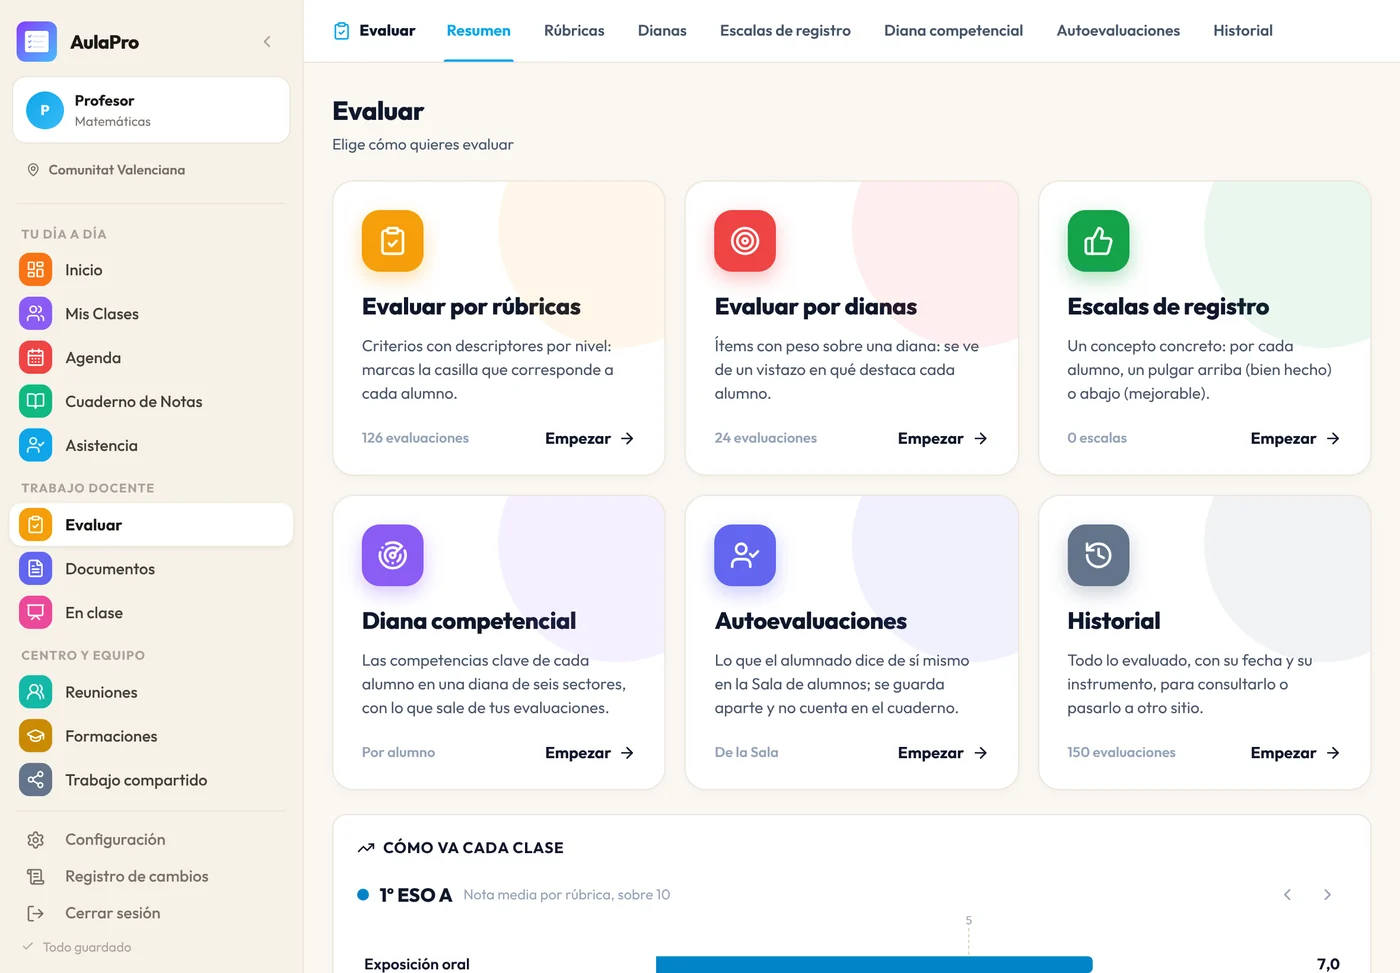
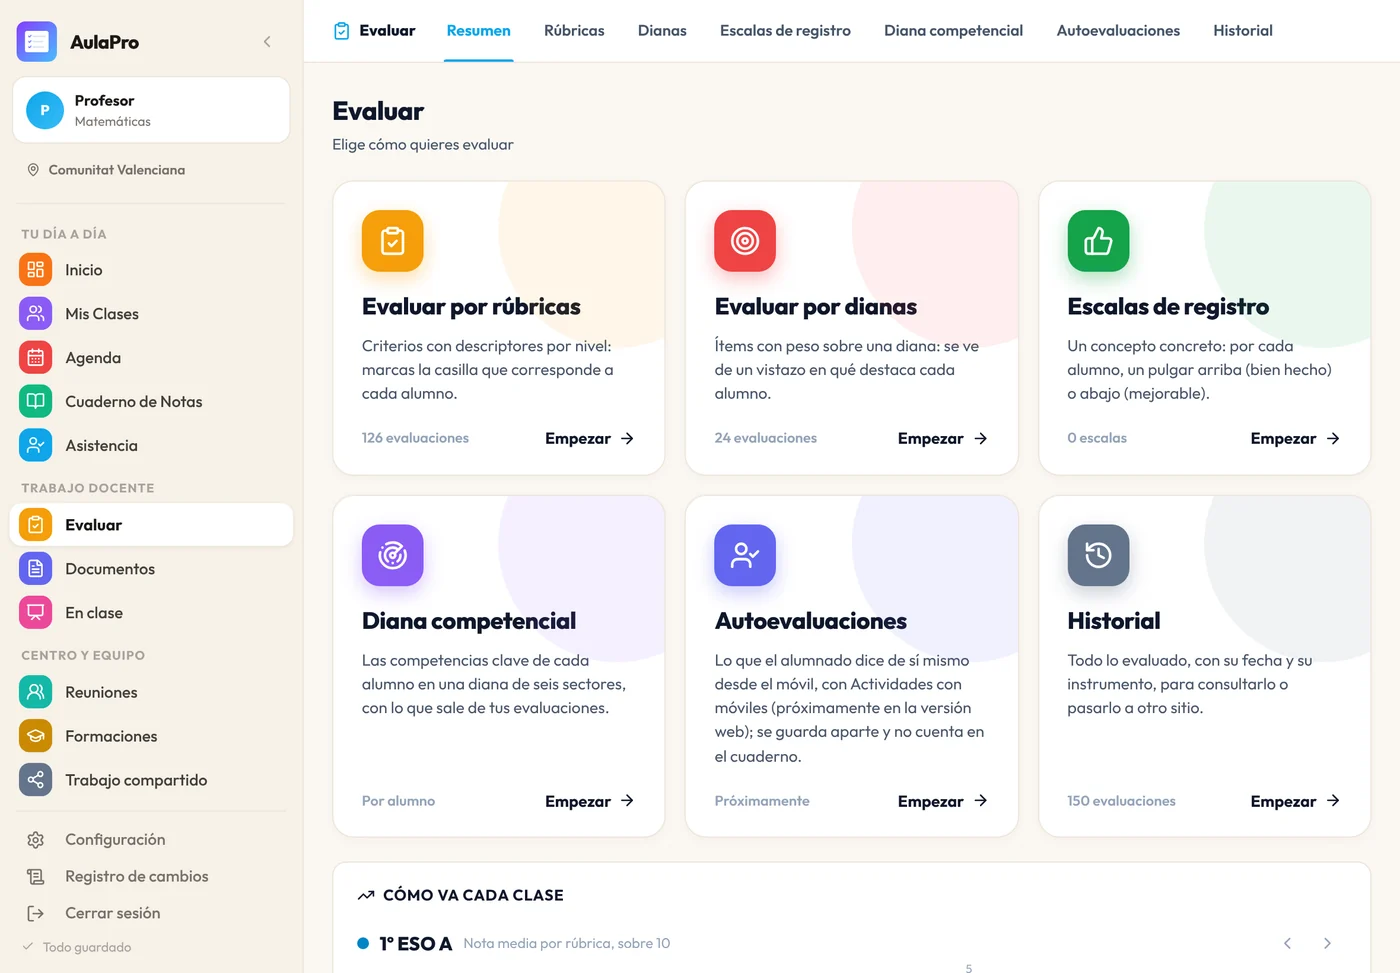
Capturas de la portada rehechas y Autoevaluaciones sin la «Sala de alumnos»
- Portada: capturas nuevas de la tableta, el móvil y la rúbrica con la app de
  hoy (las del portátil, la SdA y los informes salen idénticas).
- La tarjeta «Autoevaluaciones» de Evaluar hablaba de la «Sala de alumnos»:
  ahora dice que se hace desde el móvil con Actividades con móviles,
  próximamente en la versión web, y el dato es «Próximamente».
- scripts/web/capturar.mjs: la pantalla de Actividades con móviles de la demo
  se captura como versión web, no como la app instalada.

Claude-Session: https://claude.ai/code/session_01CVgpZ31KDvcqg8am1URBE6

diff --git a/src/i18n/ca.ts b/src/i18n/ca.ts
@@ -1326,9 +1326,8 @@ export const CA: Record<string, string> = {
   "sobre {n}": "sobre {n}",
   "Escala de las competencias clave": "Escala de les competències clau",
   "Por alumno": "Per alumne",
-  "De la Sala": "De la Sala",
-  "Las competencias clave de cada alumno en una diana de seis sectores, con lo que sale de tus evaluaciones.": "Les competències clau de cada alumne en una diana de sis sectors, amb el que surt de les teues avaluacions.",
-  "Lo que el alumnado dice de sí mismo en la Sala de alumnos; se guarda aparte y no cuenta en el cuaderno.": "El que l'alumnat diu de si mateix a la Sala d'alumnes; es desa a part i no compta al quadern.",
+    "Las competencias clave de cada alumno en una diana de seis sectores, con lo que sale de tus evaluaciones.": "Les competències clau de cada alumne en una diana de sis sectors, amb el que surt de les teues avaluacions.",
+  "Lo que el alumnado dice de sí mismo desde el móvil, con Actividades con móviles (próximamente en la versión web); se guarda aparte y no cuenta en el cuaderno.": "El que l'alumnat diu de si mateix des del mòbil, amb Activitats amb mòbils (aviat a la versió web); es desa a part i no compta al quadern.",
   "Todo lo evaluado, con su fecha y su instrumento, para consultarlo o pasarlo a otro sitio.": "Tot el que s'ha avaluat, amb la seua data i el seu instrument, per a consultar-ho o passar-ho a un altre lloc.",
   "Criterios de evaluación": "Criteris d'avaluació",
   "Saberes básicos": "Sabers bàsics",

diff --git a/src/i18n/core.ts b/src/i18n/core.ts
@@ -1368,9 +1368,8 @@ const EN: Record<string, string> = {
   'sobre {n}': 'out of {n}',
   'Escala de las competencias clave': 'Key competency scale',
   'Por alumno': 'Per student',
-  'De la Sala': 'From the student room',
-  'Las competencias clave de cada alumno en una diana de seis sectores, con lo que sale de tus evaluaciones.': 'Each student’s key competencies on a six-sector target, from your assessments.',
-  'Lo que el alumnado dice de sí mismo en la Sala de alumnos; se guarda aparte y no cuenta en el cuaderno.': 'What students say about themselves in the student room; kept apart and never counted in the gradebook.',
+    'Las competencias clave de cada alumno en una diana de seis sectores, con lo que sale de tus evaluaciones.': 'Each student’s key competencies on a six-sector target, from your assessments.',
+  'Lo que el alumnado dice de sí mismo desde el móvil, con Actividades con móviles (próximamente en la versión web); se guarda aparte y no cuenta en el cuaderno.': 'What students say about themselves from their phones, with Phone activities (coming soon to the web version); kept apart and never counted in the gradebook.',
   'Todo lo evaluado, con su fecha y su instrumento, para consultarlo o pasarlo a otro sitio.': 'Everything assessed, with its date and instrument, to review it or move it elsewhere.',
   'Criterios de evaluación': 'Assessment criteria',
   'Saberes básicos': 'Core content',

diff --git a/src/pages/EvaluarInicio.tsx b/src/pages/EvaluarInicio.tsx
@@ -63,8 +63,8 @@ export function EvaluarInicio({ classes, rubrics, dianas = [], evaluations, onNa
     {
       id: 'selfassess', color: '#6366f1', icono: <UserCheck size={26} />,
       titulo: 'Autoevaluaciones',
-      texto: 'Lo que el alumnado dice de sí mismo en la Sala de alumnos; se guarda aparte y no cuenta en el cuaderno.',
-      dato: t('De la Sala'),
+      texto: 'Lo que el alumnado dice de sí mismo desde el móvil, con Actividades con móviles (próximamente en la versión web); se guarda aparte y no cuenta en el cuaderno.',
+      dato: t('Próximamente'),
     },
     {
       id: 'history', color: '#64748b', icono: <History size={26} />,

diff --git a/CLAUDE.md b/CLAUDE.md
@@ -105,7 +105,7 @@ Para que la app gaste poco sin cambiar lo que hace, no se cargan al abrirla:
 - Diez herramientas nuevas, ocho fondos, escenas guardadas, varias instancias por herramienta (`Ventana.id` y `tipo`, hasta 24), ventanas sin tarjeta (se arrastran desde cualquier parte salvo los controles) y minimizadas a un icono. Las barras son solo iconos. La lógica sin pantalla está en `src/lib/pizarraAula.ts`, con pruebas.
 - **Hay que conservar el dibujo de la 2.12.0** (lápiz, rotulador, subrayador y borrador, con deshacer y rehacer, y el trazo al instante): lo hace `Lienzo.tsx`. Al integrar la pizarra nueva con la de `master`, se tomó `Lienzo` tal cual y solo se movieron sus controles a una barra propia.
 - Las herramientas escriben con `rgba(var(--pz-rgb), x)` y no con blanco fijo: el color de la tinta sigue al fondo de la pizarra.
-- La demo y todas las capturas de la web son de la 2.13.1 (19-10-2026). La pizarra de la demo se dibuja a mano sobre una captura sin ella (`web/DISENO.md`, sección 41): si cambia la pizarra, cambia también `INIT.pizarra` de `web/sitio/assets/demo.js`.
+- La demo y todas las capturas de la web se rehicieron el 5-11-2026, tras la auditoría de textos (antes, de la 2.13.1, 19-10-2026). La pizarra de la demo se dibuja a mano sobre una captura sin ella (`web/DISENO.md`, sección 41): si cambia la pizarra, cambia también `INIT.pizarra` de `web/sitio/assets/demo.js`.
 
 ## Elegir en tarjetas grandes (19-10-2026)
 
@@ -219,7 +219,7 @@ Petición del dueño: «que acabe todo cuadrado». Se cruzaron la portada, la de
 - **La sección de privacidad de la portada es la de la web**, no la de escritorio: se entra con la cuenta de Google o de Microsoft, el trabajo está en el navegador y, si se elige, en Drive, OneDrive o una carpeta, y la clave de la IA se queda en el navegador (sin cifrado propio: nunca decir «cifrada»).
 - **El manual del asistente (`src/services/appHelpManual.ts`) describe la versión web**: qué es, la licencia (fundador, acceso anticipado, comprada), cuánto cuesta, dónde están los datos, cómo se hace el PDF y que se actualiza sola. Lo que dice del precio y de la beta tiene que coincidir con la portada.
 - Las referencias internas de la privacidad apuntan a «AulaPro (versión web)», apartados 2, 5 y 11, y el aviso legal ya no cita Google Play. Las páginas legales llevan como «última actualización» el 5-11-2026.
-- **Pendiente, que no son textos:** las capturas de la portada y de la demo son de la 2.13.1 y pueden enseñar pantallas que han cambiado (por ejemplo, la tarjeta «Evaluar por foto», apagada): hay que rehacerlas con `scripts/web/capturar.mjs` y `capturar-portada.mjs`.
+- **Capturas rehechas el 5-11-2026** (`scripts/web/capturar.mjs` y `capturar-portada.mjs`), con los textos ya corregidos (la tarjeta «Autoevaluaciones» de Evaluar ya no habla de la «Sala de alumnos»). La pantalla «Actividades con móviles» de la demo se captura **como versión web** («Próximamente en la versión web»): hasta ese día el script se hacía pasar por la app instalada y enseñaba una sala que en la web no existe.
 
 ## Publicar
 
